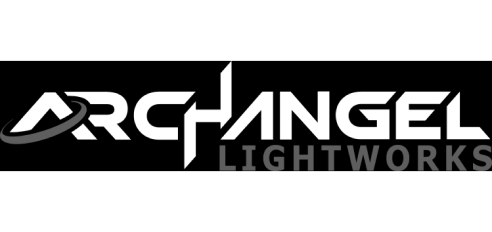
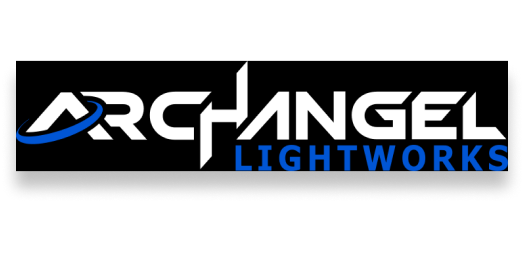
Update sponsor images and add hover effects

diff --git a/src/Pages/Home/Sponser/Sponser.jsx b/src/Pages/Home/Sponser/Sponser.jsx
@@ -20,20 +20,40 @@ const Sponser = () => {
               <div className="grid grid-cols-5 justify-between mt-16">
                 <div className=" border-r border-[#595959] px-5">
                   {" "}
-                  <img src={sponser1} alt="" className=" " />
+                  <img
+                    src={sponser1}
+                    alt=""
+                    className="saturate-0 hover:saturate-100 hover:scale-105 transition-all duration-300  "
+                  />
                 </div>
                 <div className=" border-r border-[#595959] px-5">
                   {" "}
-                  <img src={sponser2} alt="" className="" />
+                  <img
+                    src={sponser2}
+                    alt=""
+                    className="saturate-0 hover:saturate-100 hover:scale-105 transition-all duration-300 "
+                  />
                 </div>
                 <div className=" border-r border-[#595959] px-5">
-                  <img src={sponser4} alt="" className="" />
+                  <img
+                    src={sponser4}
+                    alt=""
+                    className="saturate-0 hover:saturate-100 hover:scale-105 transition-all duration-300 "
+                  />
                 </div>
                 <div className="border-r border-[#595959] px-5">
-                  <img src={sponser3} alt="" className="" />
+                  <img
+                    src={sponser3}
+                    alt=""
+                    className="saturate-0 hover:saturate-100 hover:scale-105 transition-all duration-300 "
+                  />
                 </div>
                 <div className=" px-5">
-                  <img src={sponser5} alt="" className="" />
+                  <img
+                    src={sponser5}
+                    alt=""
+                    className="saturate-0 hover:saturate-100 hover:scale-105 transition-all duration-300 "
+                  />
                 </div>
               </div>
             </div>
